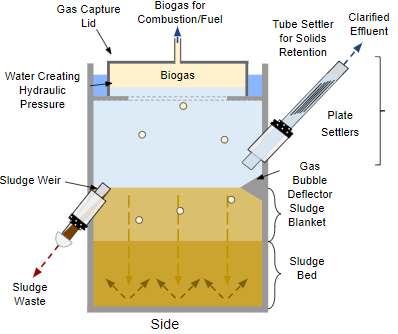
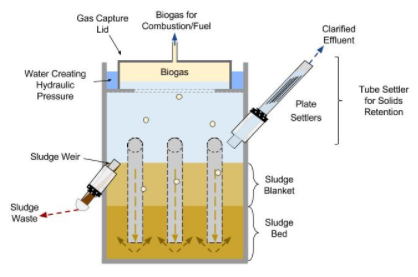
Edits to sludge sampling and FOG

diff --git a/UASB_Manual_Spring2018.md b/UASB_Manual_Spring2018.md
@@ -8,8 +8,8 @@ Please do not delete any of my comments. Just address them in the manual and I w
 </div>
 
 ## Abstract
-Since Spring 2017, the AguaClara Upflow Anaerobic Sludge Blanket (UASB) Team has been working on a detailed design of modified, pilot-scale UASB reactor originally proposed in an EPA P3 proposal. A UASB reactor treats wastewater anaerobically and produces biogas as a by-product. Working towards that goal, the team has created Python code to record the design process and calculations for this AguaClara UASB. This document serves as a master guide for the design process. 10
-
+Since Spring 2017, the AguaClara Upflow Anaerobic Sludge Blanket (UASB) Team has been working on a detailed design of modified, pilot-scale UASB reactor originafflly proposed in an EPA P3 proposal. A UASB reactor treats wastewater anaerobically and produces biogas as a by-product. Working towards that goal, the team has created Python code to record the design process and calculations for this AguaClara UASB. This document serves as a master guide for the design process. 10
+fff
 <div class="alert alert-block alert-danger">
 What does UASB mean? FIXED-jj
 
@@ -165,7 +165,7 @@ Previous work done by the 1 L/s team has shown that the bottom of the sedimentat
 How much is it overdesigned? Is there a safety factor?
 
 How would the system fail? What are the risks?
-
+fdsfsdafdsf
 How does the sloped bottom ensure structural integrity?
 </div>
 
@@ -502,17 +502,26 @@ Another important note is that the system will always have a failsafe system to 
 
 After brainstorming these options, the team quickly ruled out the first two options, and they were complicated and either required mechanical parts or chemical dosing, which go against the design philosophy of the project to make the UASB simple and cheap to install and operate.
 
+Thus, the team decided to design a small outflow pipe from the biogas lid.  In talking with Mr. Gottlieb, it seems a greater velocity will be needed to remove fat particles, as they will tend to spread over the water surface and congeal into mats.  Design for this system is still ongoing, and the team is researching siphon systems, as well as working to determine the dimensions of this pipe system.   
+
 ### Sludge Sampling and Removal System
 
-Another important part of the UASB design in the sludge weir system.  The sludge weir is a tube built out of the UASB, originating at the top of the sludge blanket.  This tube has a valve at the end of the cap, allowing sampling and discharge from the UASB as necessary.  This serves two purposes.  First of all, it allows removal of material from the sludge blanket.  Given that the sludge blanket is mostly biological material, it will constantly grow with inputs of wastewater, and this allows us to control the growth as necessary.  This allows sample collection throughout the lifetime of the reactor as well.
+![UASB_Side](/Images/Sludge_Weir.PNG)
+
+As long as it is continously fed wastewater as "food", the UASB sludge blanket will continue to grow over time, filling the sludge volume and eventually rising upwards into the effluent zone.  To control and monitor this growth, our design incorporates a sludge weir system.  
+
+The sludge weir consists of a tube jutting out of the reactor at a downwards angle, with two valves.  The first valve is in line with the reactor wall.  This valve will be left open during reactor operation, allowing excess sludge to settle into the tube over time.  The tube itself will be partially transparent, allowing direct monitoring of sludge levels and composition.  When it is necessary for sludge to be removed from the system, this valve will be shut, and the outer valve will be opened to allow discharge of sludge material.
+
+### Other Sampling Ports
+
+For testing purposes, the first model of the UASB will include multiple sampling ports placed at different heights along the reactor.  These will be similar in design to the sludge weir, but smaller in diameter, and only used for testing purposed, not large scale sludge removal.  The ultimate number and location of these system will be determined once further research into sampling techniques is complete.
+
+Another important concern for the reactor is inorganic removal.  Inorganics such as sand, rocks, plastics, and other materials will inevitably enter the wastewater stream.  Those that are not removed in the degritting system will enter the reactor.  Since these materials are often denser than water, they will settle in the reactor and remain within the system indefinitely.  In order to remove these materials, a final inorganics weir will be added to the bottom of the reactor.  While this weir will most likely only be used sporadically, it is an important system to remove materials that would otherwise build up and hinder reactor performance.  
 
 <div class="alert alert-block alert-danger">
-Refer to a diagram. It is hard to keep track of all the different parts.
+Refer to a diagram. It is hard to keep track of all the different parts.  Added -IC
 </div>
 
-Additional small sludge sampling ports will be added as necessary to ensure different areas of the blanket can be sampled properly.
-
-One final important system for design is the inorganics removal tube.  As wastewater flows into the system, materials such as sand, rocks, grit, and plastics will flow in and build up in the bottom of the reactor.  Since there is no way for these materials to be removed from the UASB, a drainage valve must be added so the reactor can periodically be cleaned.
 
 <div class="alert alert-block alert-danger">
 So the drainage vale will drain the entire UASB reactor and allow for the nonorganics to get scooped out?
@@ -622,7 +631,7 @@ Why use a list in this way?
 While these are important considerations, they do not heavily impact nor constrain the overall designs of the system.  These considerations will continued to be looked at and remedied as needed in the future.
 
 <div class="alert alert-block alert-danger">
-Do you have a final design yet? Or a list of important values that will incluence construction?
+Do you have a final design yet? Or a list of important values that will influence construction?
 
 Is there time this semester to start creating a plan for fabrication including the sequence of fabrication steps and best methods?
 
